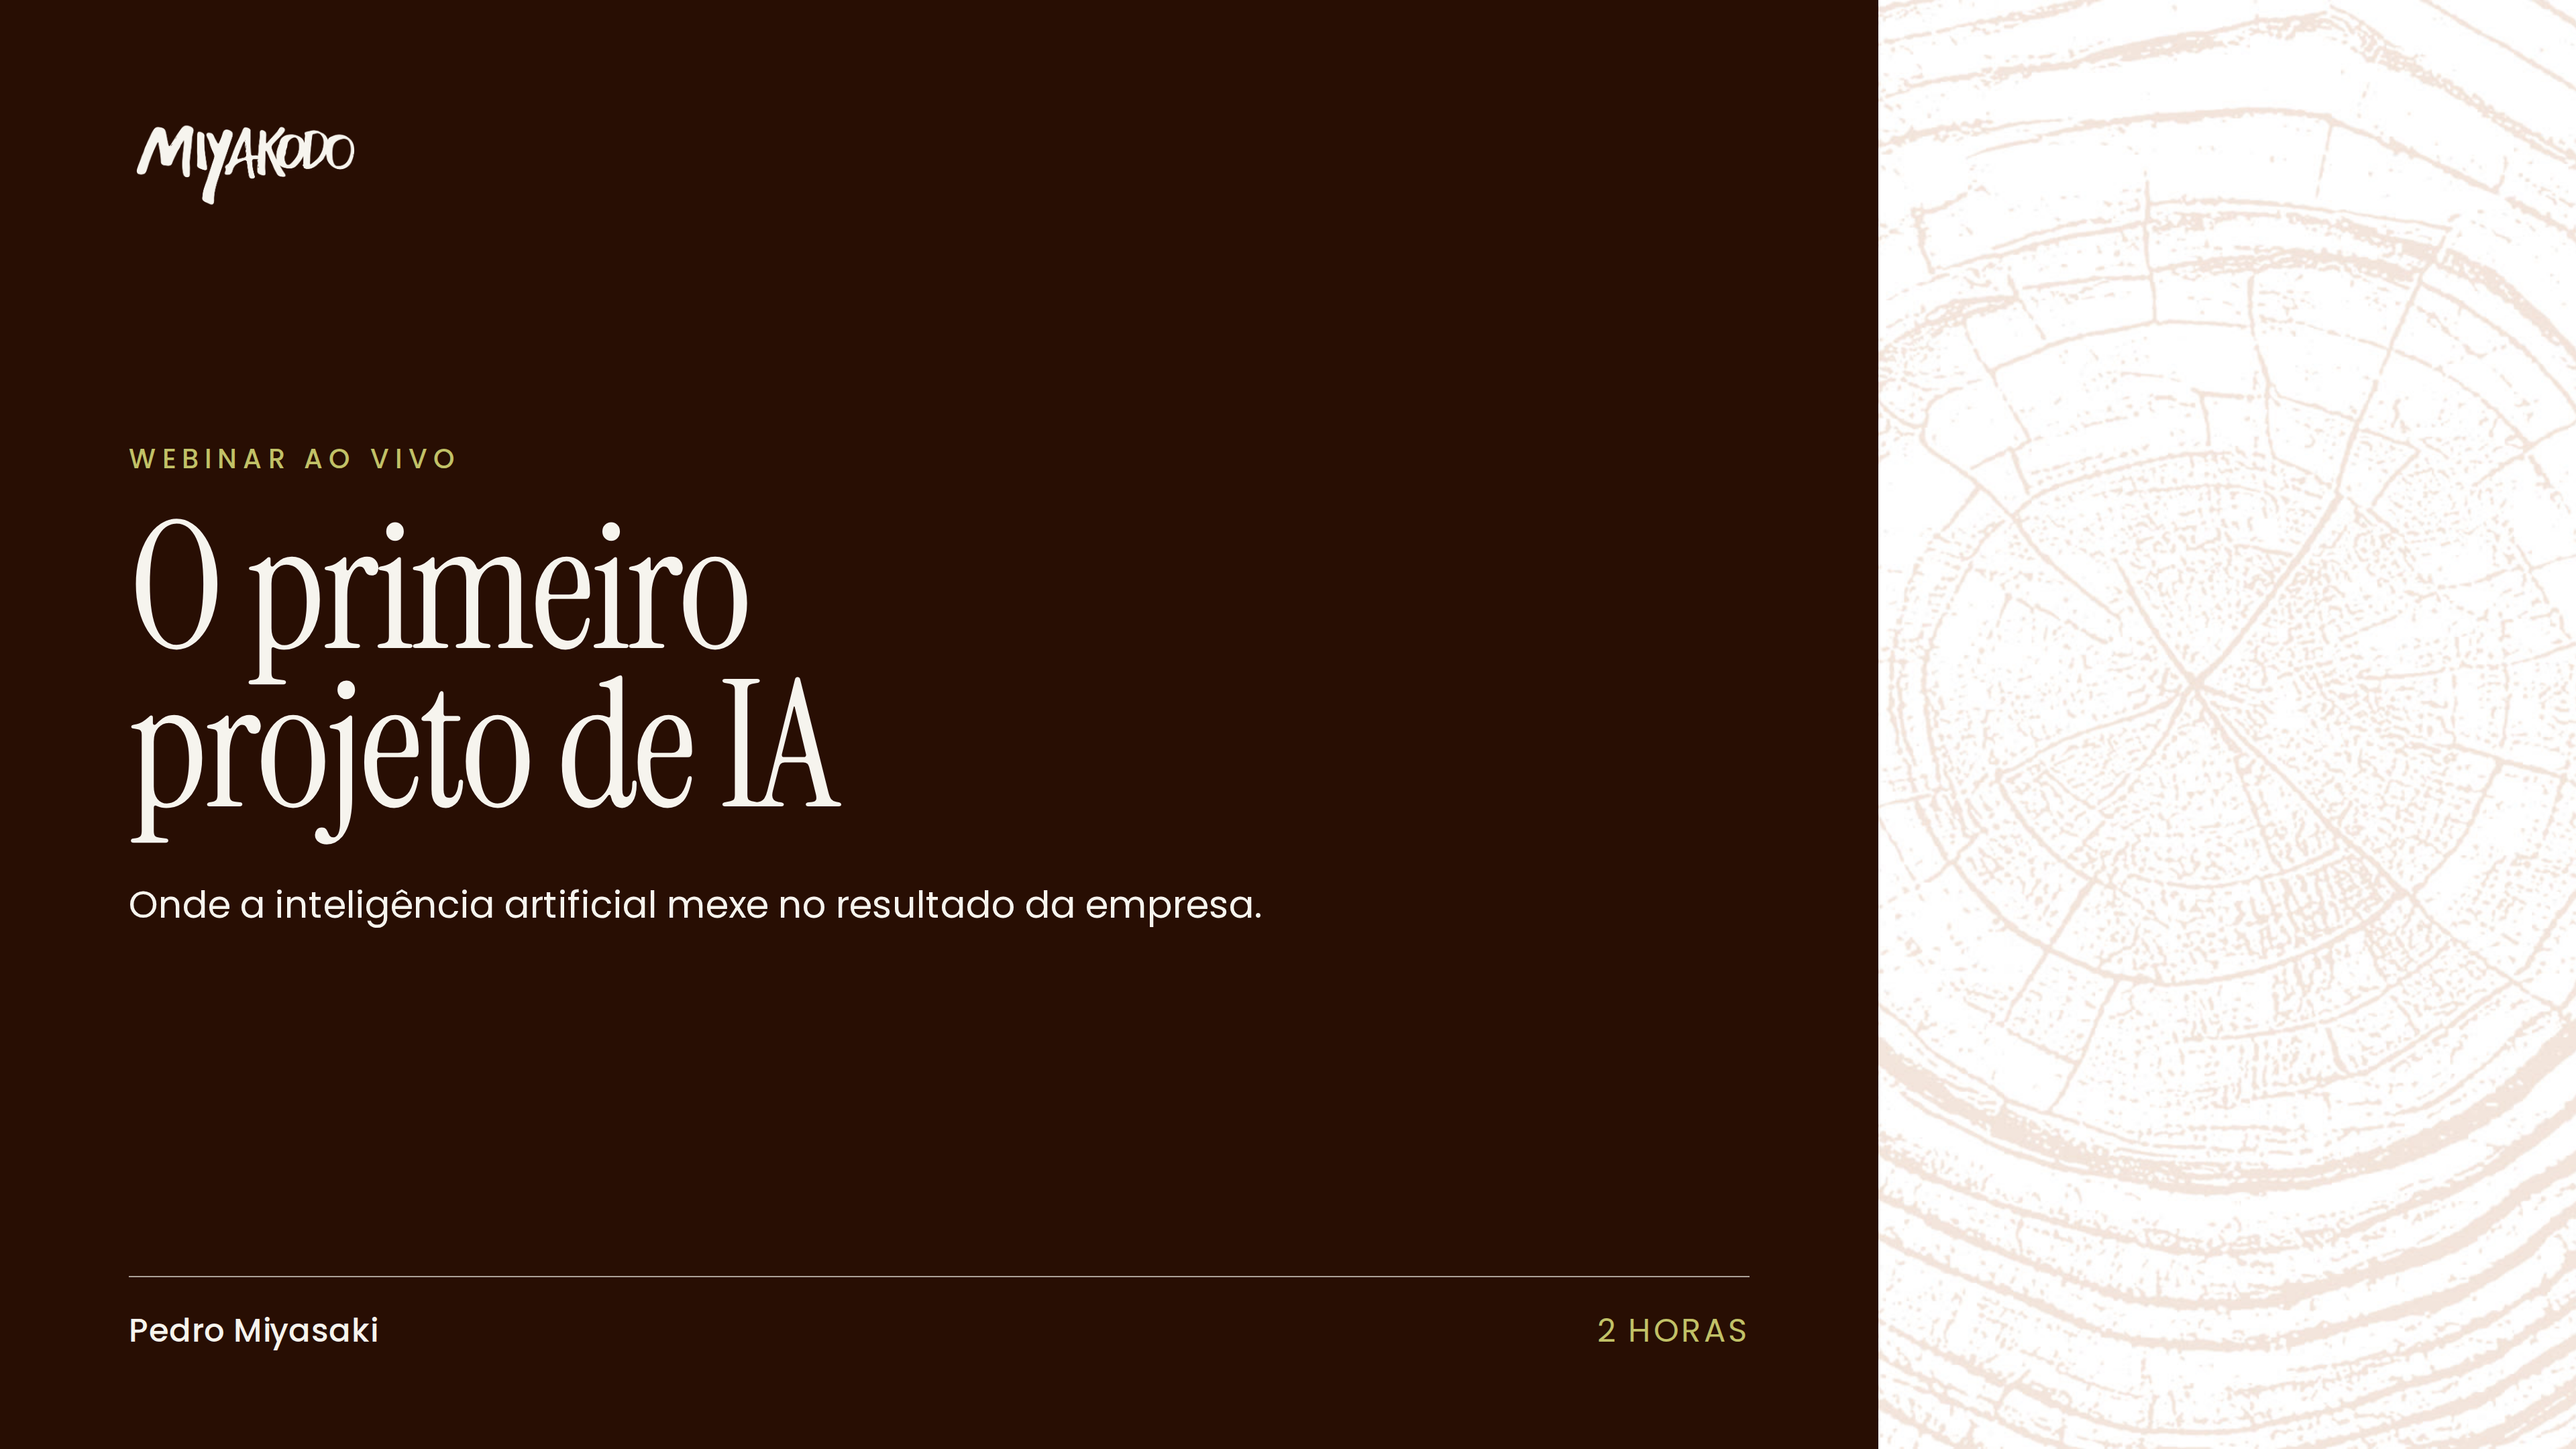
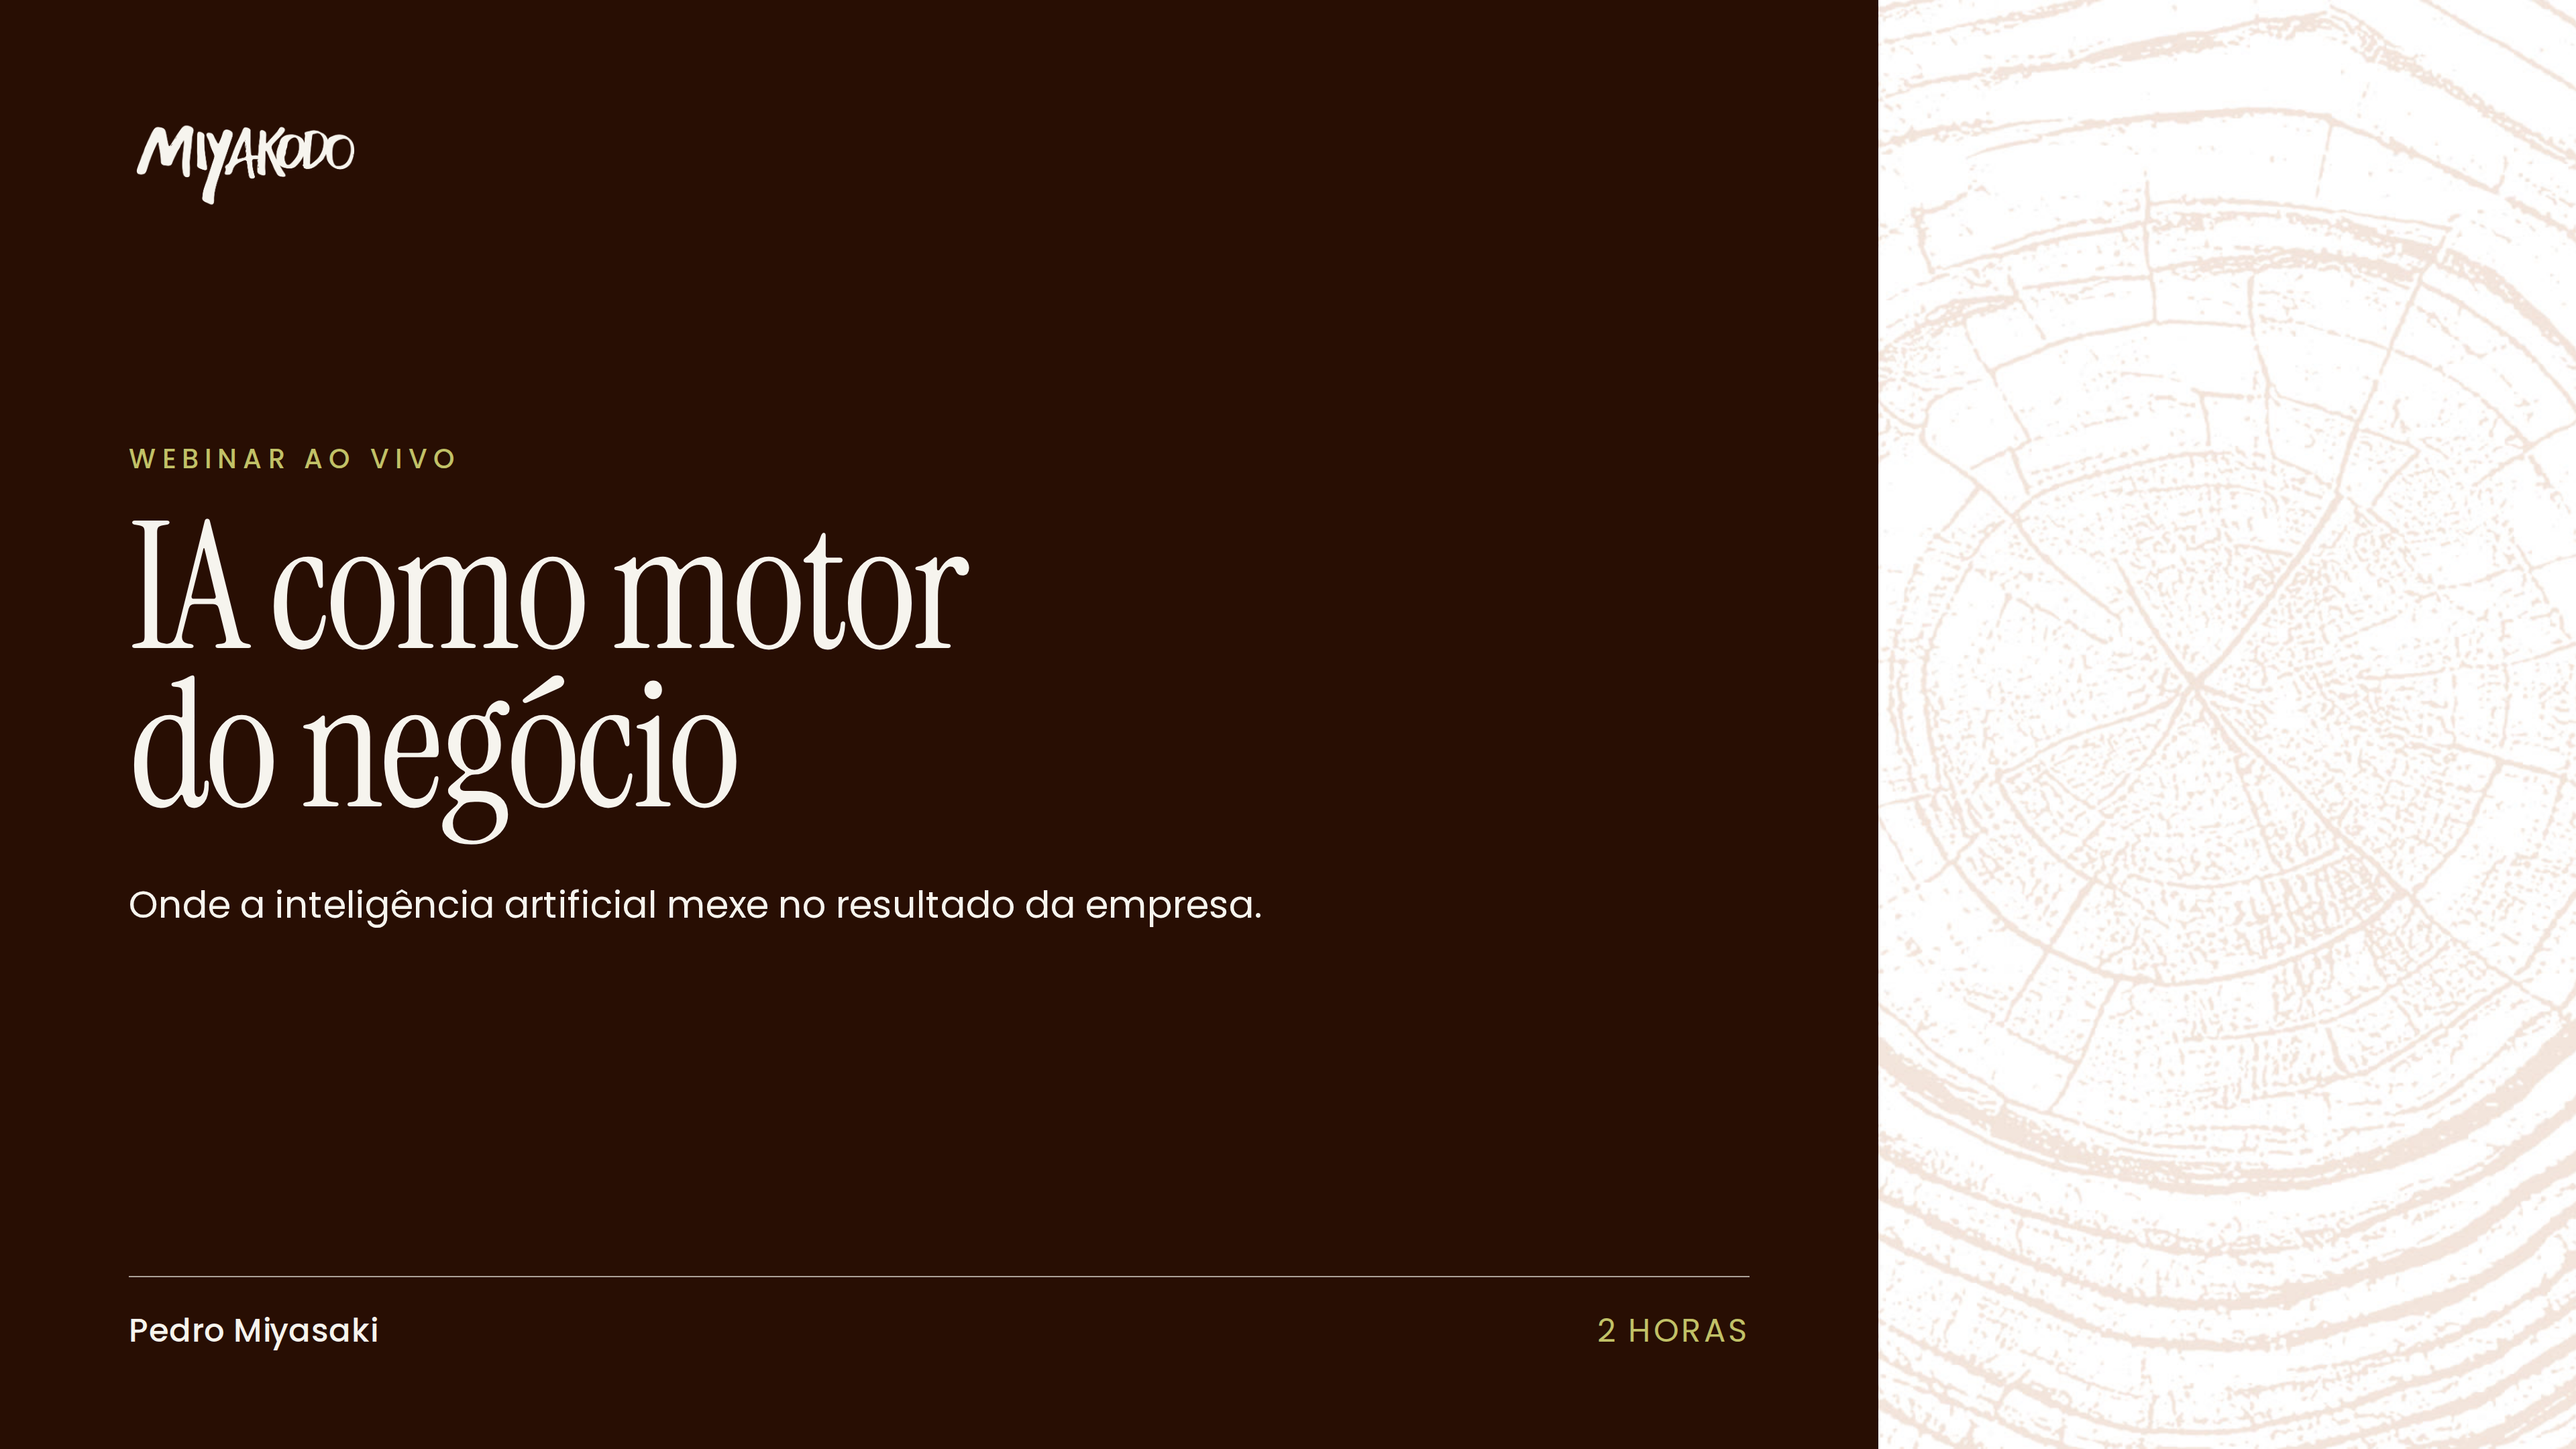
Troca o título da capa para IA como motor do negócio.
O subtítulo sobre resultado da empresa permanece.

Changed region(s): [[0.0312, 0.3412, 0.375, 0.5894]]

diff --git a/webinar/capa/index.html b/webinar/capa/index.html
@@ -2,7 +2,7 @@
 <html lang="pt-BR">
 <head>
 <meta charset="utf-8">
-<title>Capa: O primeiro projeto de IA</title>
+<title>Capa: IA como motor do negócio</title>
 <style>
 @font-face {
   font-family: "Instrument Serif";
@@ -124,7 +124,7 @@ h1 {
     <img class="logo" src="../../design/logo/png/horizontal/MIYAKODO_HORIZONTAL3.png" alt="Miyakodo">
     <div class="middle">
       <p class="kicker">Webinar ao vivo</p>
-      <h1>O primeiro<br>projeto de IA</h1>
+      <h1>IA como motor<br>do negócio</h1>
       <p class="sub">Onde a inteligência artificial mexe no resultado da empresa.</p>
     </div>
     <div class="foot">

diff --git a/webinar/capa/texto.md b/webinar/capa/texto.md
@@ -4,7 +4,7 @@ Slide de abertura, 1920×1080. A arte está em `index.html` e o render em `capa.
 
 ## Nome
 
-O primeiro projeto de IA
+IA como motor do negócio
 
 ## Subtítulo
 
